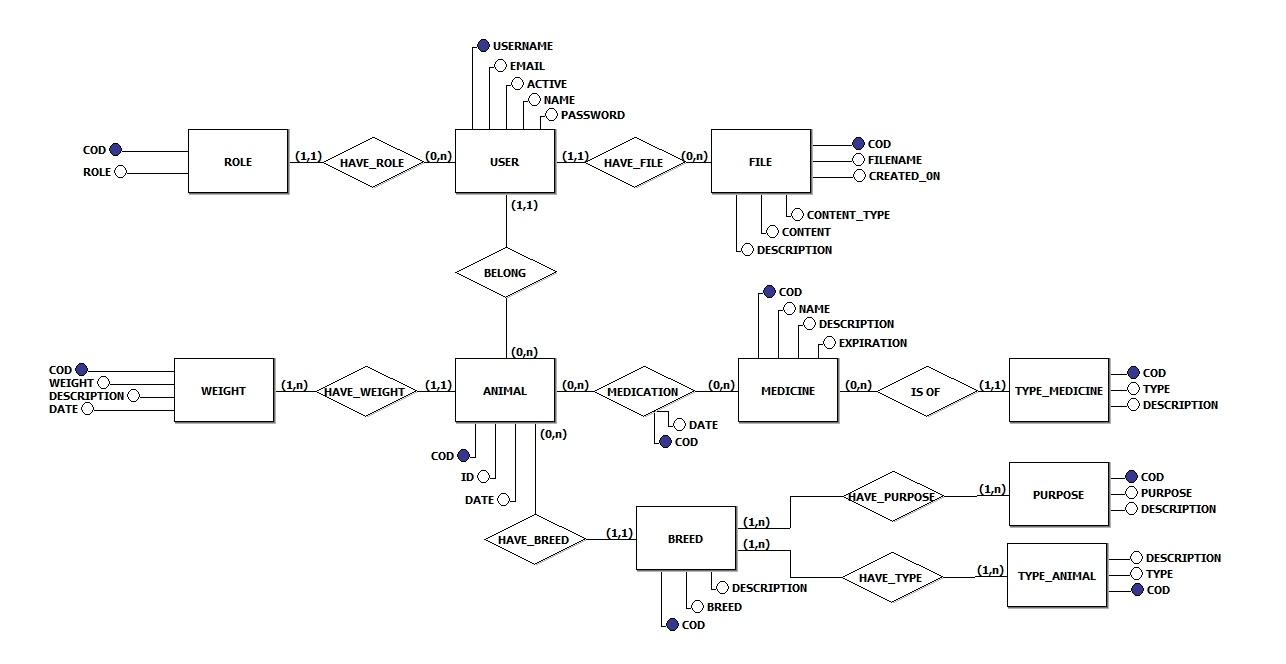
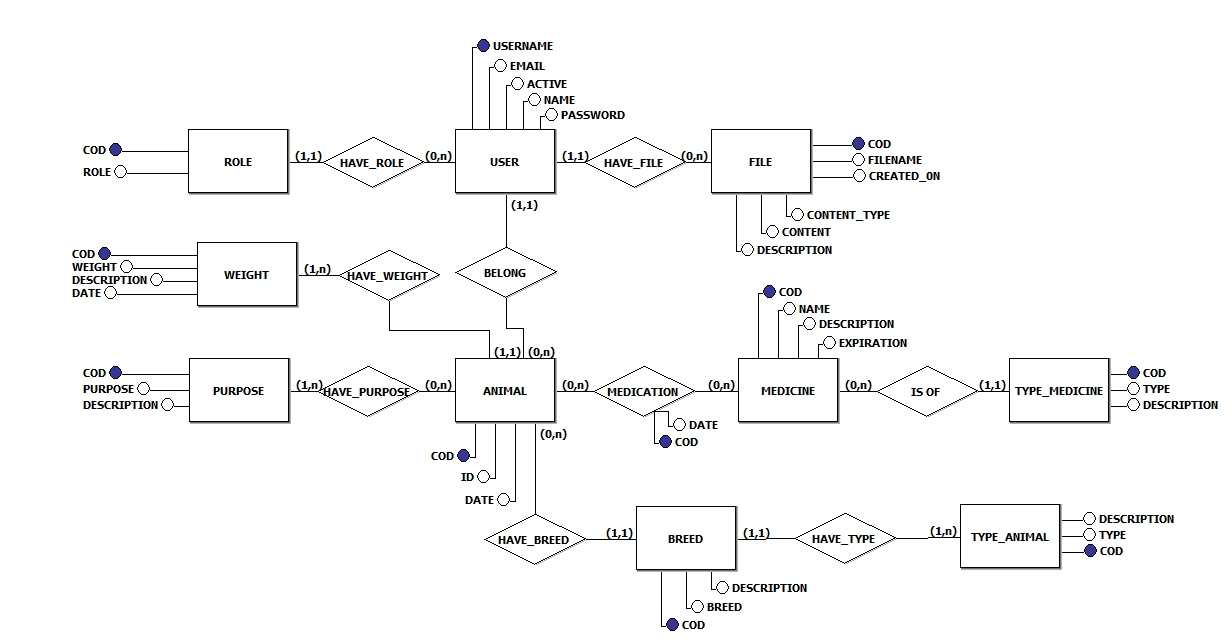
Adicionar relação tabela Animal e Purpose

diff --git a/src/main/java/br/edu/ifrs/canoas/tcc/sisbov/domain/Purpose.java b/src/main/java/br/edu/ifrs/canoas/tcc/sisbov/domain/Purpose.java
@@ -1,10 +1,12 @@
 package br.edu.ifrs.canoas.tcc.sisbov.domain;
 
 import java.io.Serializable;
+import java.util.List;
 
 import javax.persistence.Entity;
 import javax.persistence.GeneratedValue;
 import javax.persistence.Id;
+import javax.persistence.ManyToMany;
 
 import org.hibernate.annotations.GenericGenerator;
 
@@ -21,6 +23,9 @@ public class Purpose implements Serializable {
 	private String purpose;
 	
 	private String description;
+	
+	@ManyToMany
+	private List<Animal> animal;
 
 	public Long getCod() {
 		return cod;

diff --git a/src/main/java/br/edu/ifrs/canoas/tcc/sisbov/domain/Animal.java b/src/main/java/br/edu/ifrs/canoas/tcc/sisbov/domain/Animal.java
@@ -7,6 +7,7 @@ import java.util.List;
 import javax.persistence.Entity;
 import javax.persistence.GeneratedValue;
 import javax.persistence.Id;
+import javax.persistence.ManyToMany;
 import javax.persistence.ManyToOne;
 import javax.persistence.OneToMany;
 
@@ -34,6 +35,9 @@ public class Animal implements Serializable {
 	
 	@ManyToOne
 	private Breed breed;
+	
+	@ManyToMany
+	private List<Purpose> purpose;
 
 	public Long getCod() {
 		return cod;
